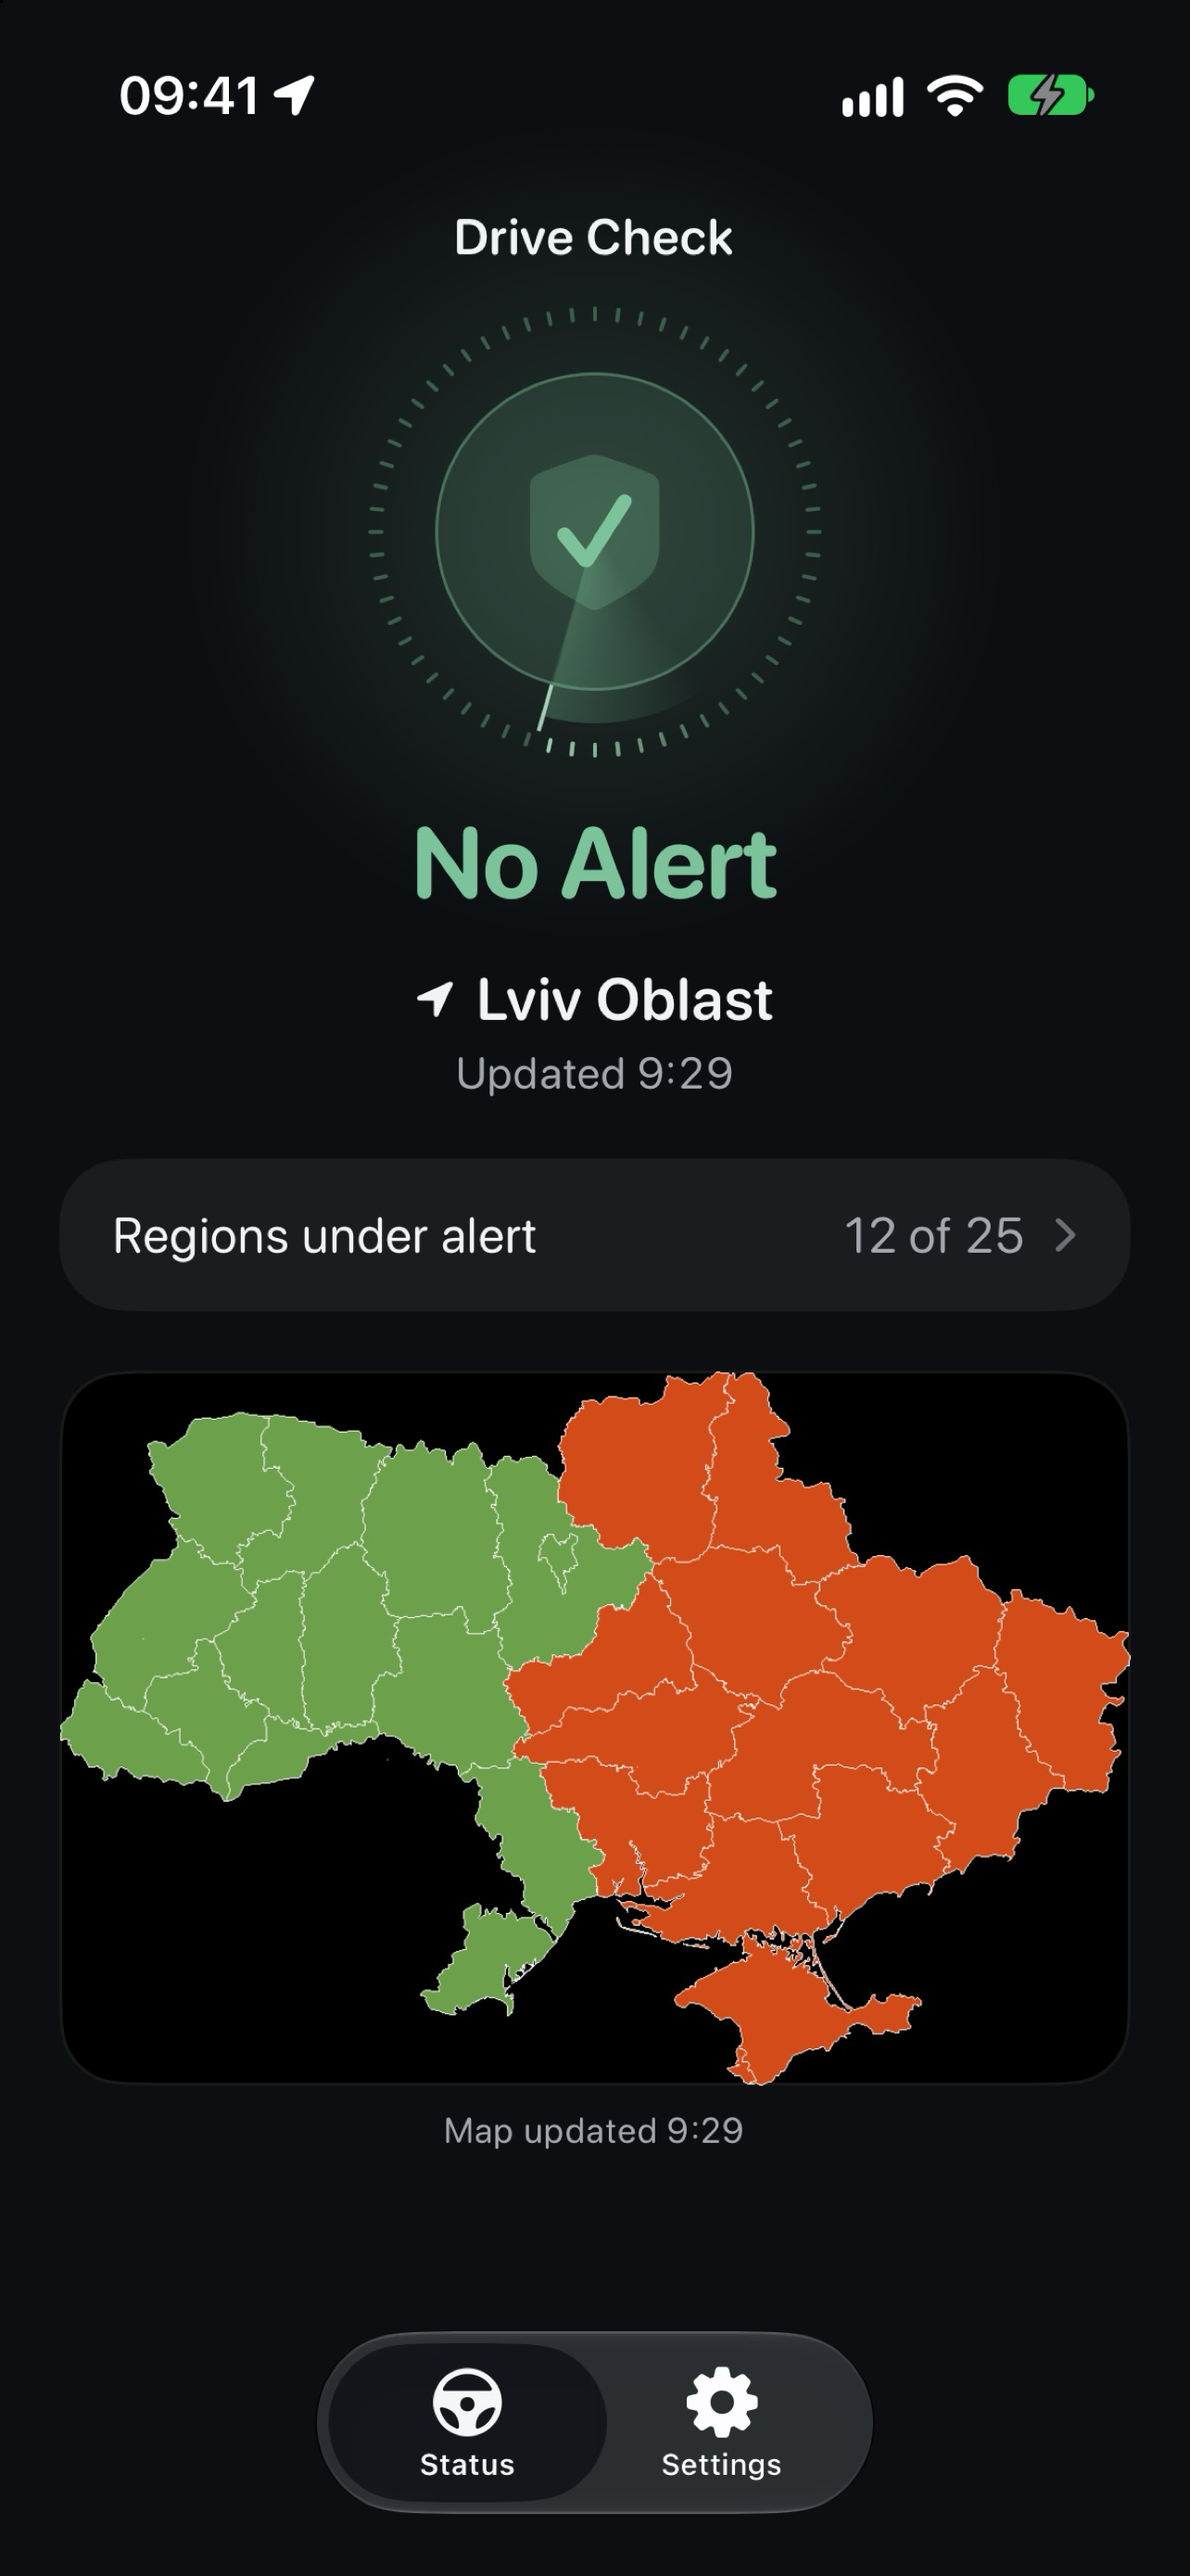
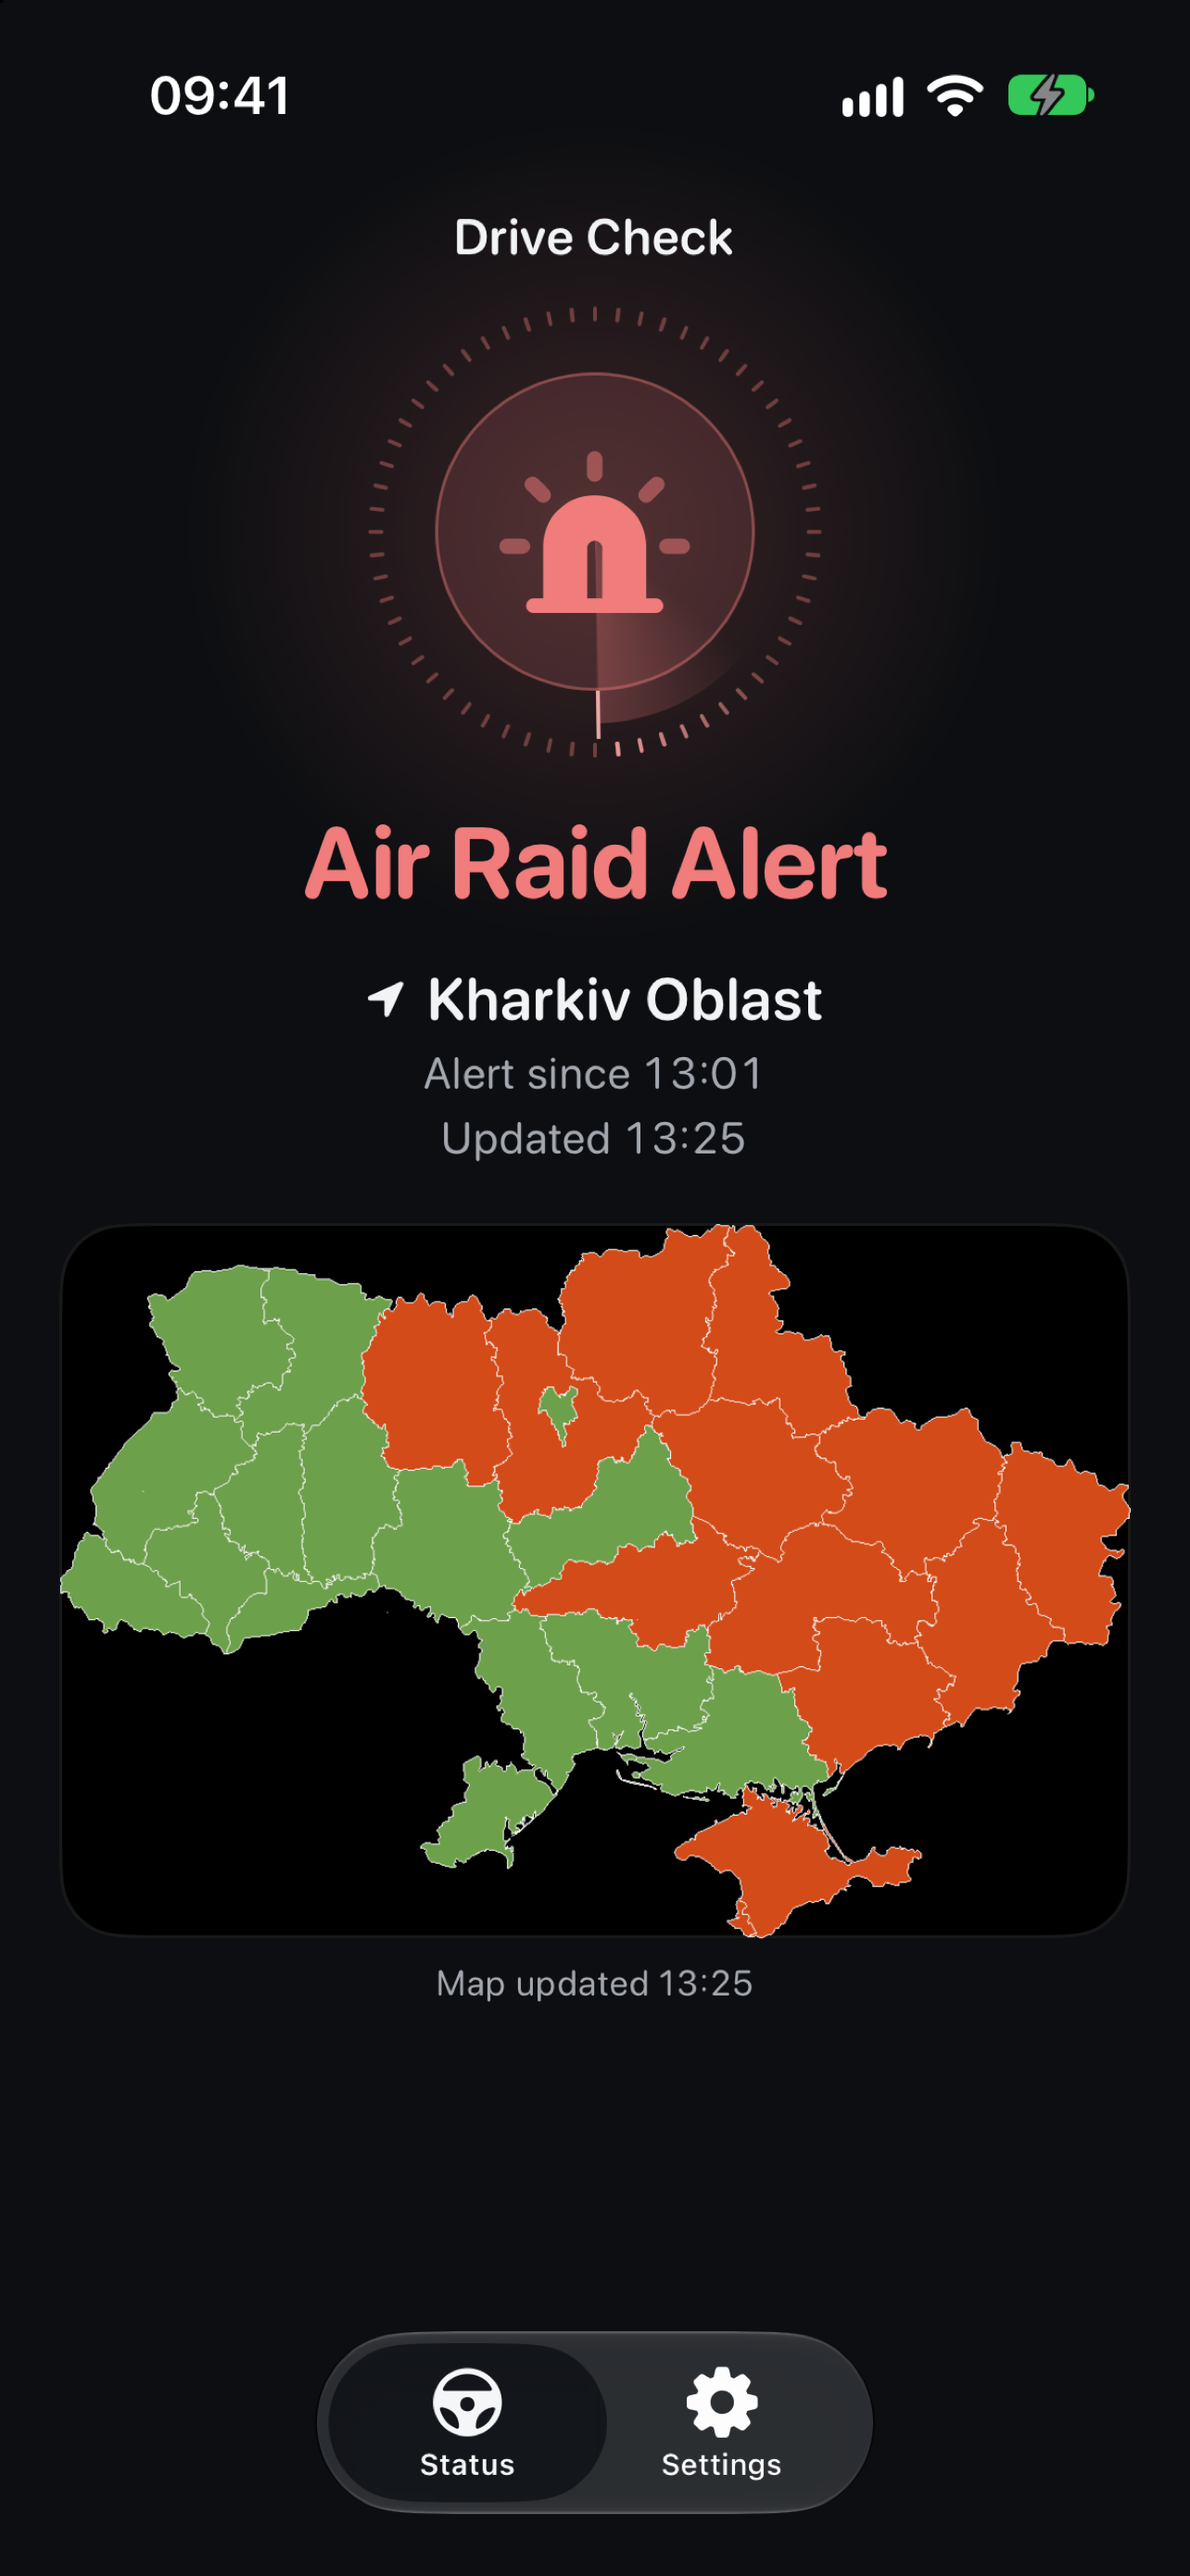
docs(release): recapture the 3.4.0 Status screenshots with the reason line
The Status screens and the region list now show the reason line instead of the overview rows; the
same set is uploaded to the 3.4.0 draft in App Store Connect.

Validation: four screens captured on the simulator with live data, all 1284 x 2778 opaque; App
Store Connect lists the six screenshots of both sets as processed, in order.

Changed region(s): [[0.0312, 0.1238, 0.9657, 0.8359], [0.0935, 0.031, 0.2804, 0.0619]]

diff --git a/release/screenshots/README.md b/release/screenshots/README.md
@@ -7,17 +7,25 @@ the same English set.
 
 1. `asc/01-onboarding.png` — first launch: the welcome sheet, "Continue".
 2. `asc/02-status-no-alert.png` — Status, Lviv Oblast with no alert: the radar around the
-   shield, the inline alert map and its "Map updated" time.
-3. `asc/03-status-stay-alert.png` — Status, Odesa Oblast in yellow "Stay Alert": quiet,
-   with most of its neighbours under alert, and the nearby line.
+   shield, no reason line (no neighbour under alert), the inline alert map and its "Map updated" time.
+3. `asc/03-status-stay-alert.png` — Status, Kyiv in yellow "Stay Alert": quiet, with Kyiv Oblast
+   and its ring under alert, and the reason line "Alert nearby: Kyiv Oblast, Chernihiv Oblast +2".
 4. `asc/04-status-alert.png` — Status, Kharkiv Oblast under alert: the radar around the
-   siren.
+   siren and the reason line "Alert since 13:01".
 5. `asc/05-region-list.png` — the read-only region list opened from the map.
 6. `asc/06-details.png` — Settings: Live Activities, notifications, About.
 
 All six are 1284 x 2778 opaque portrait images.
 
-## Capture provenance (3.4.0)
+## Capture provenance (3.4.0, STATUS-reason)
+
+Screens 02–05 were recaptured on 2026-11-13 at about 13:25 Kyiv time from the STATUS-reason
+Debug build, on the same simulator with live Ubilling data (12 regions under alert in the feed,
+11 oblasts in the region list), the same way as below; the map matched the feed at capture.
+01 and 06 did not change and are kept. The 1206 x 2622 captures, flattened, are the 6.1" set
+uploaded beside this 6.5" one.
+
+## Capture provenance (3.4.0, first set)
 
 Captured on 2026-11-13 at 09:29–09:33 Kyiv time from the 3.4.0 Debug build of this branch, on
 this worktree's iPhone 17 simulator (iOS 27.0) erased first, with live Ubilling data (12 of 25
